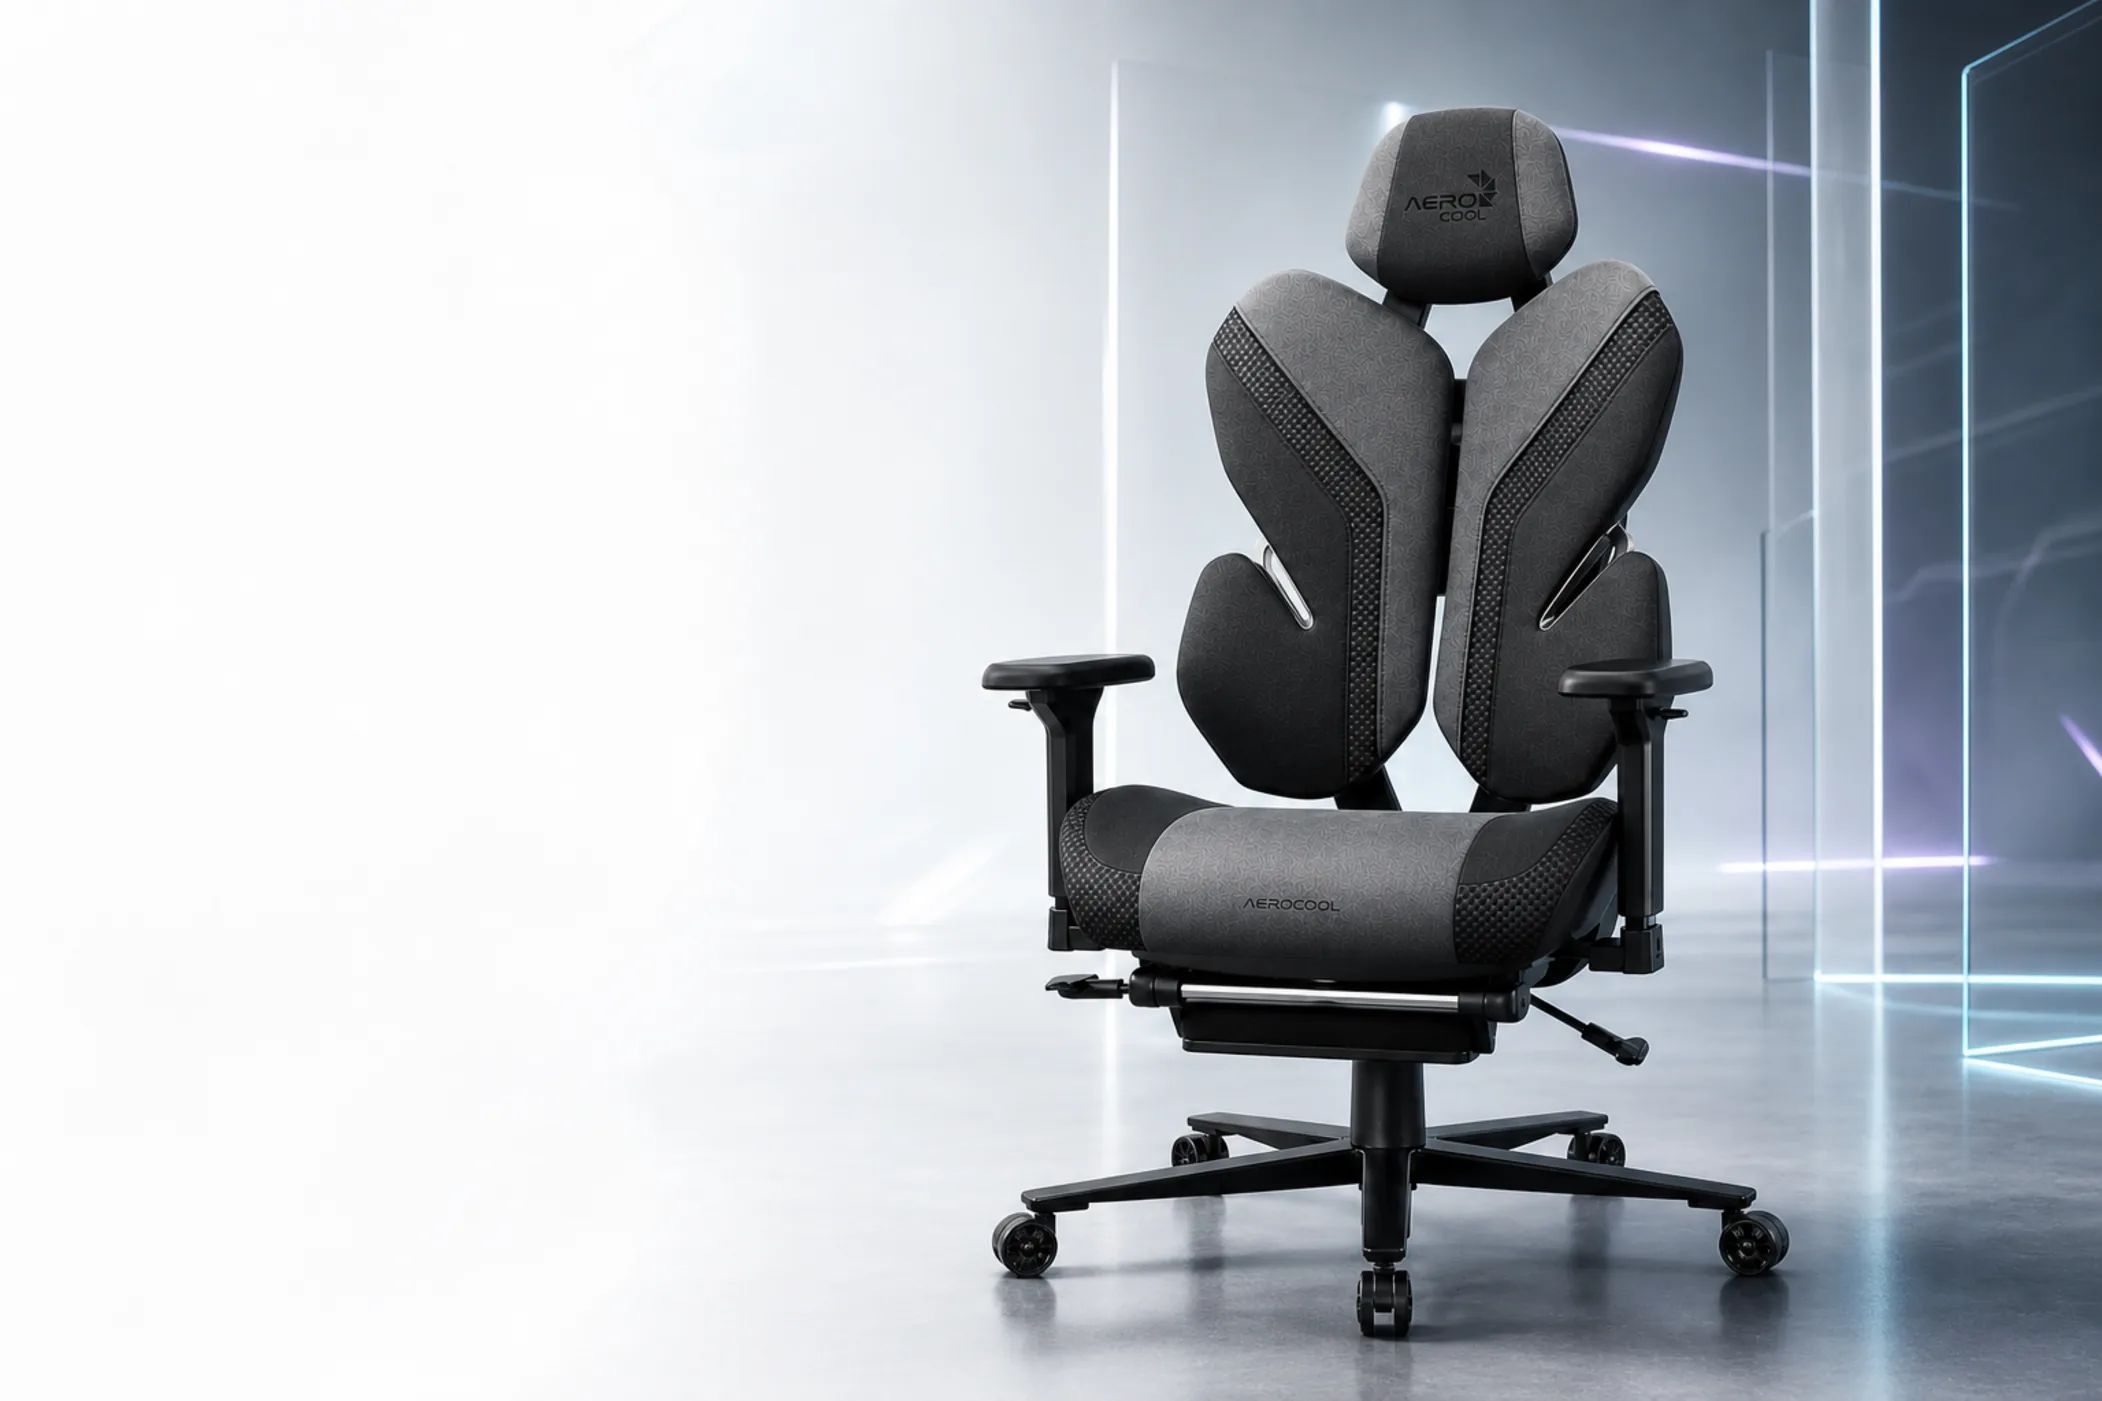
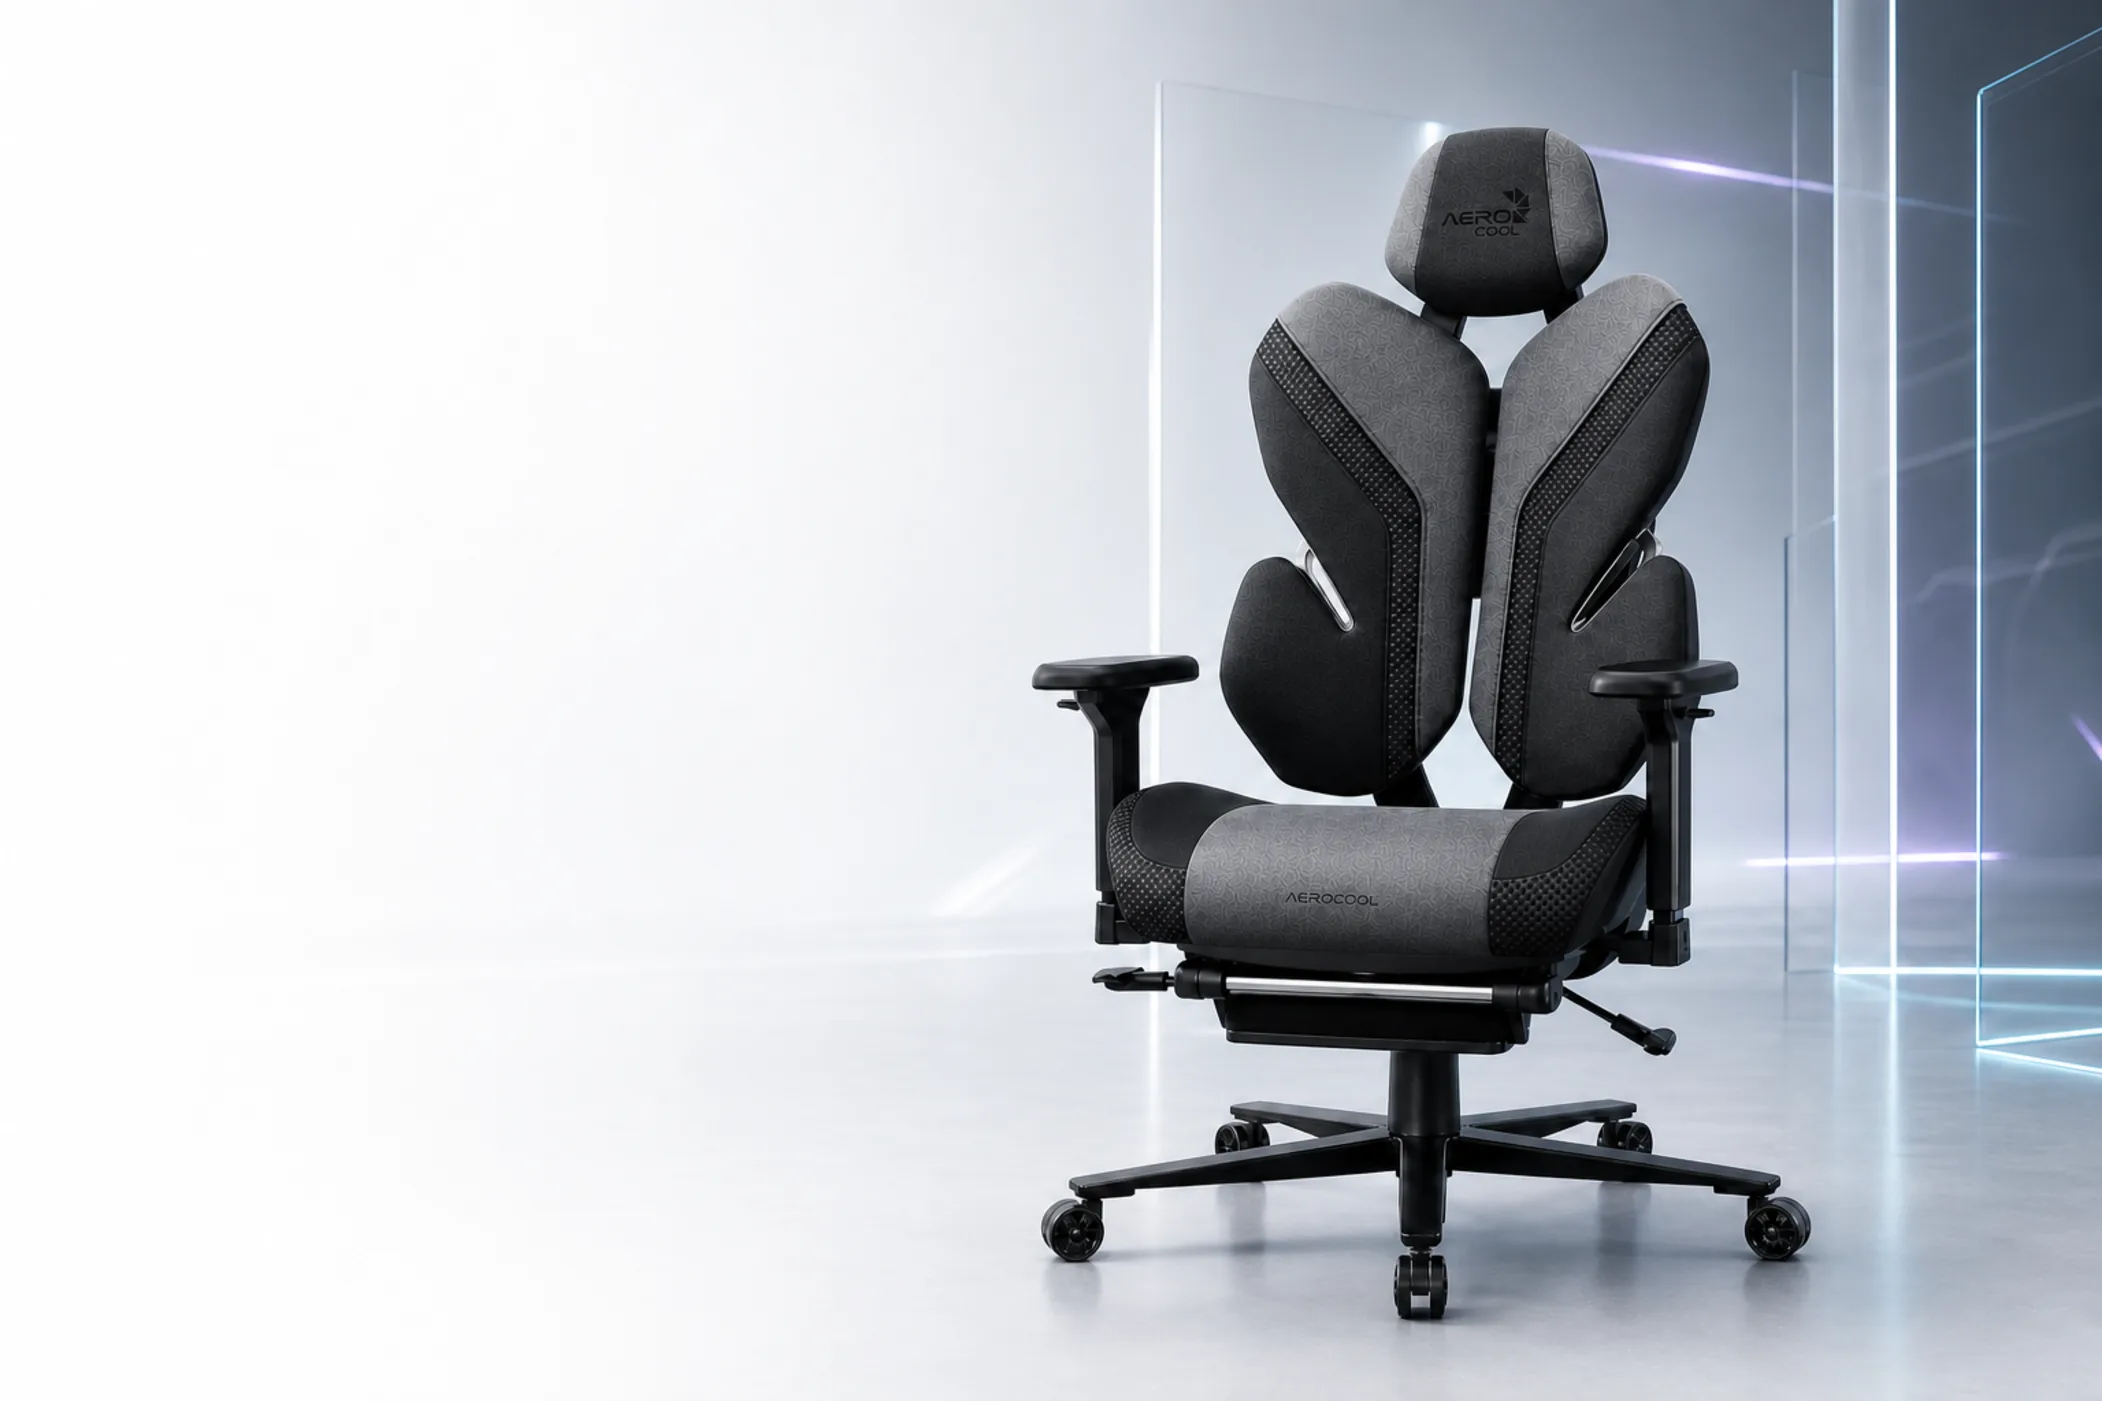
обновление

Changed region(s): [[0.4638, 0.0, 1.0, 1.0], [0.9895, 0.5218, 1.0, 0.5525], [0.6185, 0.6138, 0.6494, 0.6445]]

diff --git a/docs/audits/70-2026-06-12-content-articles-news-image-home-hero-audit.md b/docs/audits/70-2026-06-12-content-articles-news-image-home-hero-audit.md
@@ -102,7 +102,7 @@
 
 - `assets/images/home-hero85.webp` имеет размер из hero-кода **2102x1401**;
 - формат: WebP;
-- вес после финальной оптимизации: около **83 KB**;
+- вес после финальной оптимизации: около **72 KB**;
 - визуальный слой: calm light-to-graphite high-tech studio, cold cyan/violet light, soft reflective floor, right-side split hero composition и чистый переход в белый canvas сайта;
 - верхний, нижний и левый края визуально согласованы: без жесткой темной рамки и без отдельного неравного скругления нижнего края;
 - бренд Aerocool виден на самом кресле как интегрированная печать/тиснение на материале;